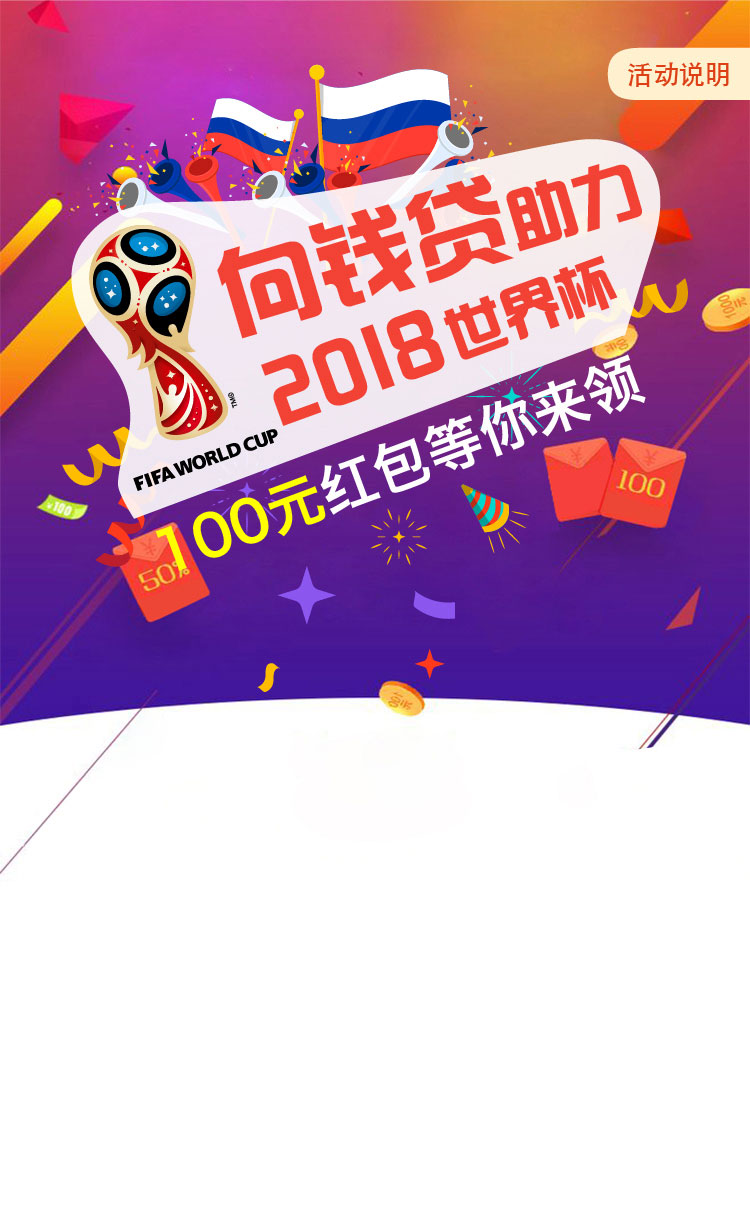
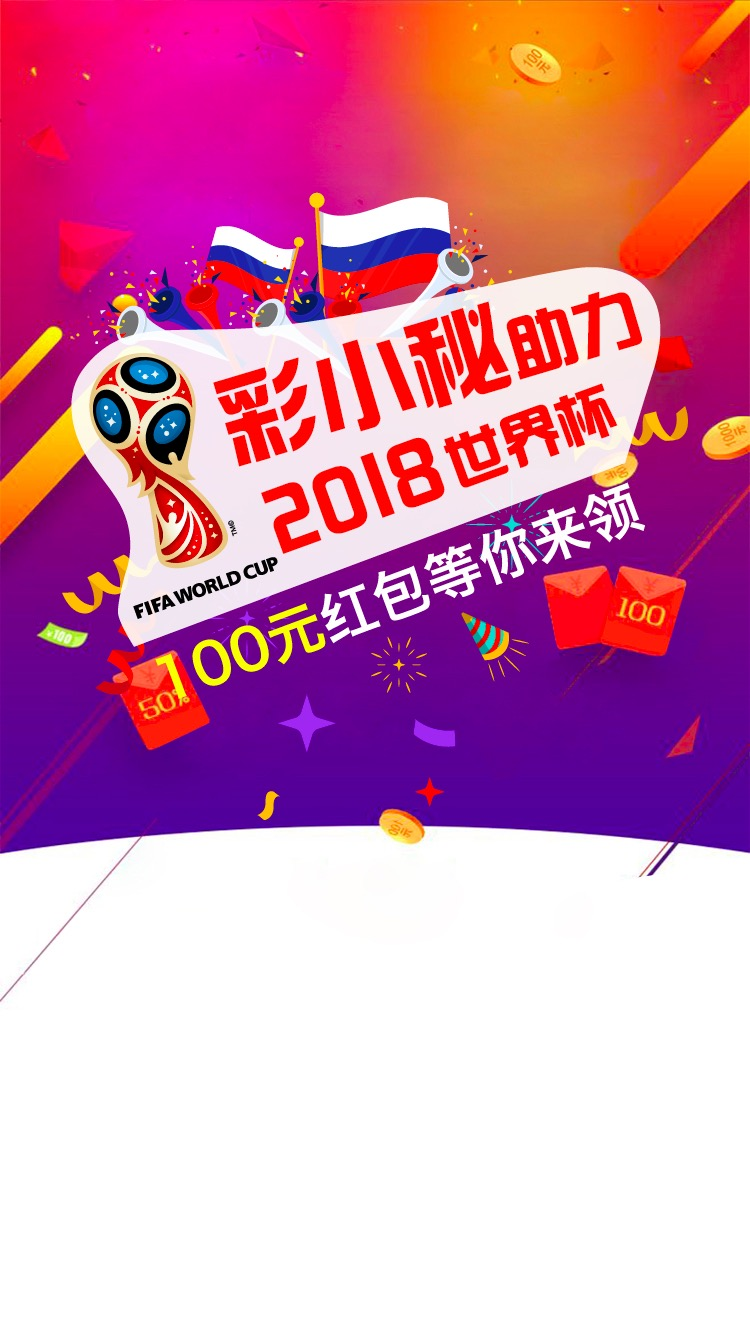
充值

diff --git a/cxm/src/components/activity/red_packet/index/style.scss b/cxm/src/components/activity/red_packet/index/style.scss
@@ -81,16 +81,16 @@
           width: 50%;
           display: inline-block;
           div{
-            background: url(../image/img2.png) no-repeat;
-            background-size: 100% 100%;
+            background: url(../image/img2.png) no-repeat center;
+            background-size: 95% 95%;
             width: px2rem(364px);
             height: px2rem(220px);
             position: relative;
             i{
               background: url(../image/img3.png) no-repeat;
               position: absolute;
-              right: px2rem(15px);
-              top: px2rem(11px);
+              right: px2rem(23px);
+              top: px2rem(18px);
               width: px2rem(246px);
               height: px2rem(87px);
             }
@@ -109,7 +109,7 @@
             p:nth-of-type(1){
               height: px2rem(60px);
               line-height: px2rem(60px);
-              padding-top: px2rem(90px);
+              padding-top: px2rem(80px);
               color: #e14d24;
               font-size: px2rem(40px);
               span{

diff --git a/cxm/static/activity/loanmoney/script.js b/cxm/static/activity/loanmoney/script.js
@@ -50,7 +50,7 @@ $.showIndicator();
 		function activity_smClick() {
 			$.modal({
 				title: '活动说明',
-				text: '<p class="left">1、用户通过页面注册，即可领取100元红包，下载APP进行使用。<br />2、每位用户仅有一次获得100元红包机会，同一设备、手机号视为同一用户。<br />3、本活动不可与其他同类型新用户注册活动同享。<br /> 4、最终解释权归彩小秘和向钱贷所有。</p>',
+				text: '<p class="left">1、用户通过页面注册，即可领取100元红包，下载APP进行使用。<br />2、每位用户仅有一次获得100元红包机会，同一设备、手机号视为同一用户。<br />3、本活动不可与其他同类型新用户注册活动同享。<br /> 4、最终解释权归彩小秘所有。</p>',
 				buttons: [{
 					text: '知道了',
 					onClick: function() {
